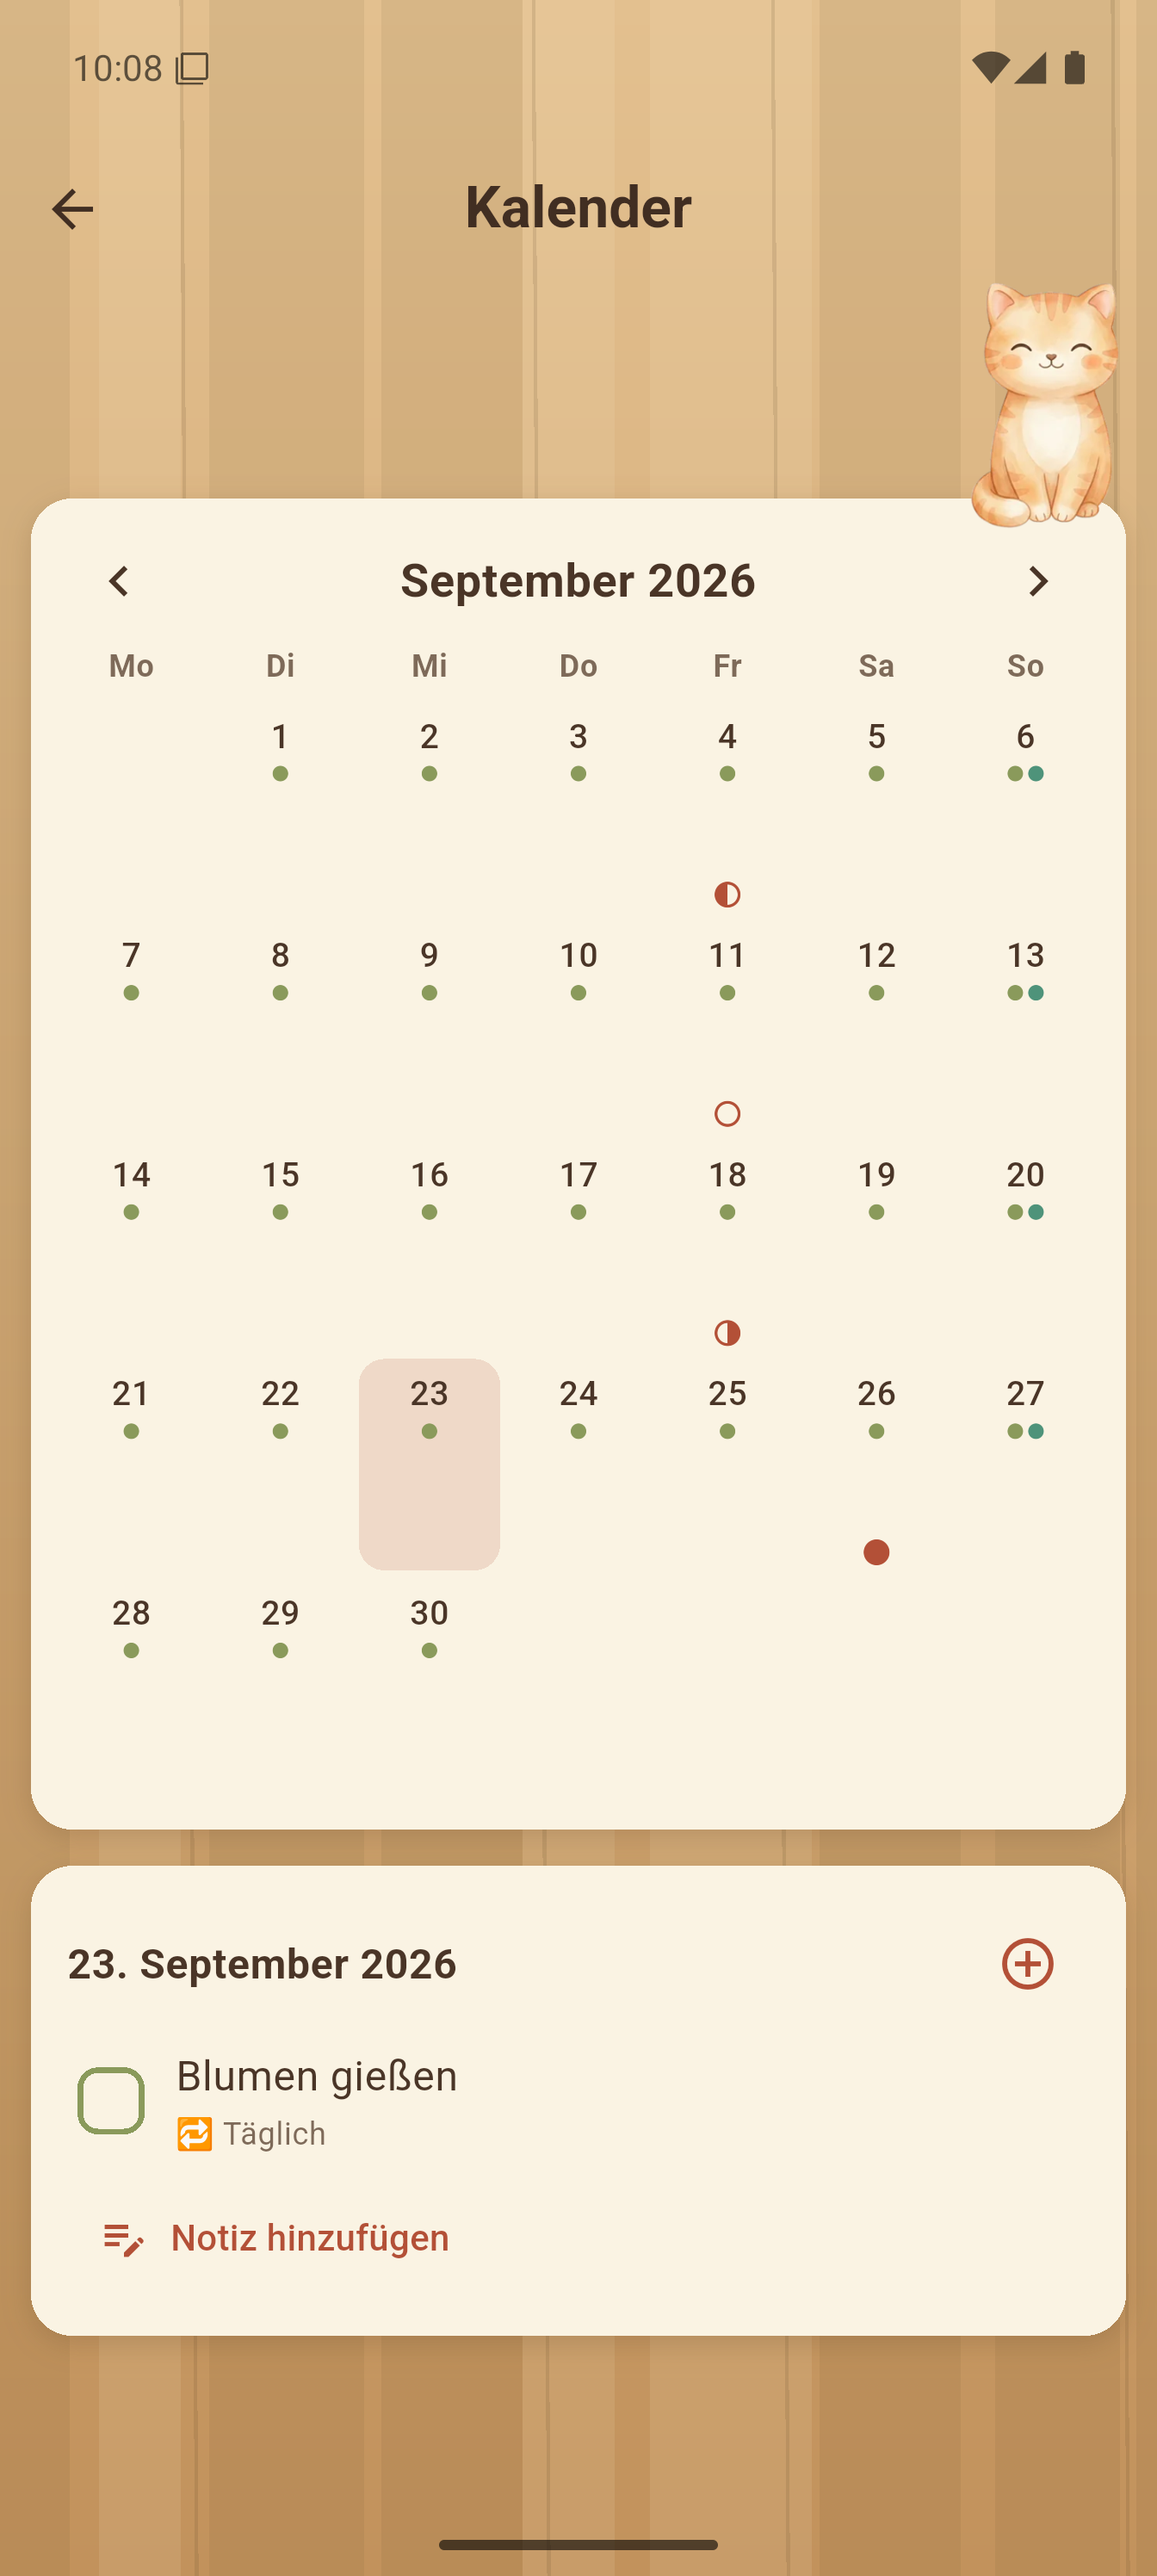
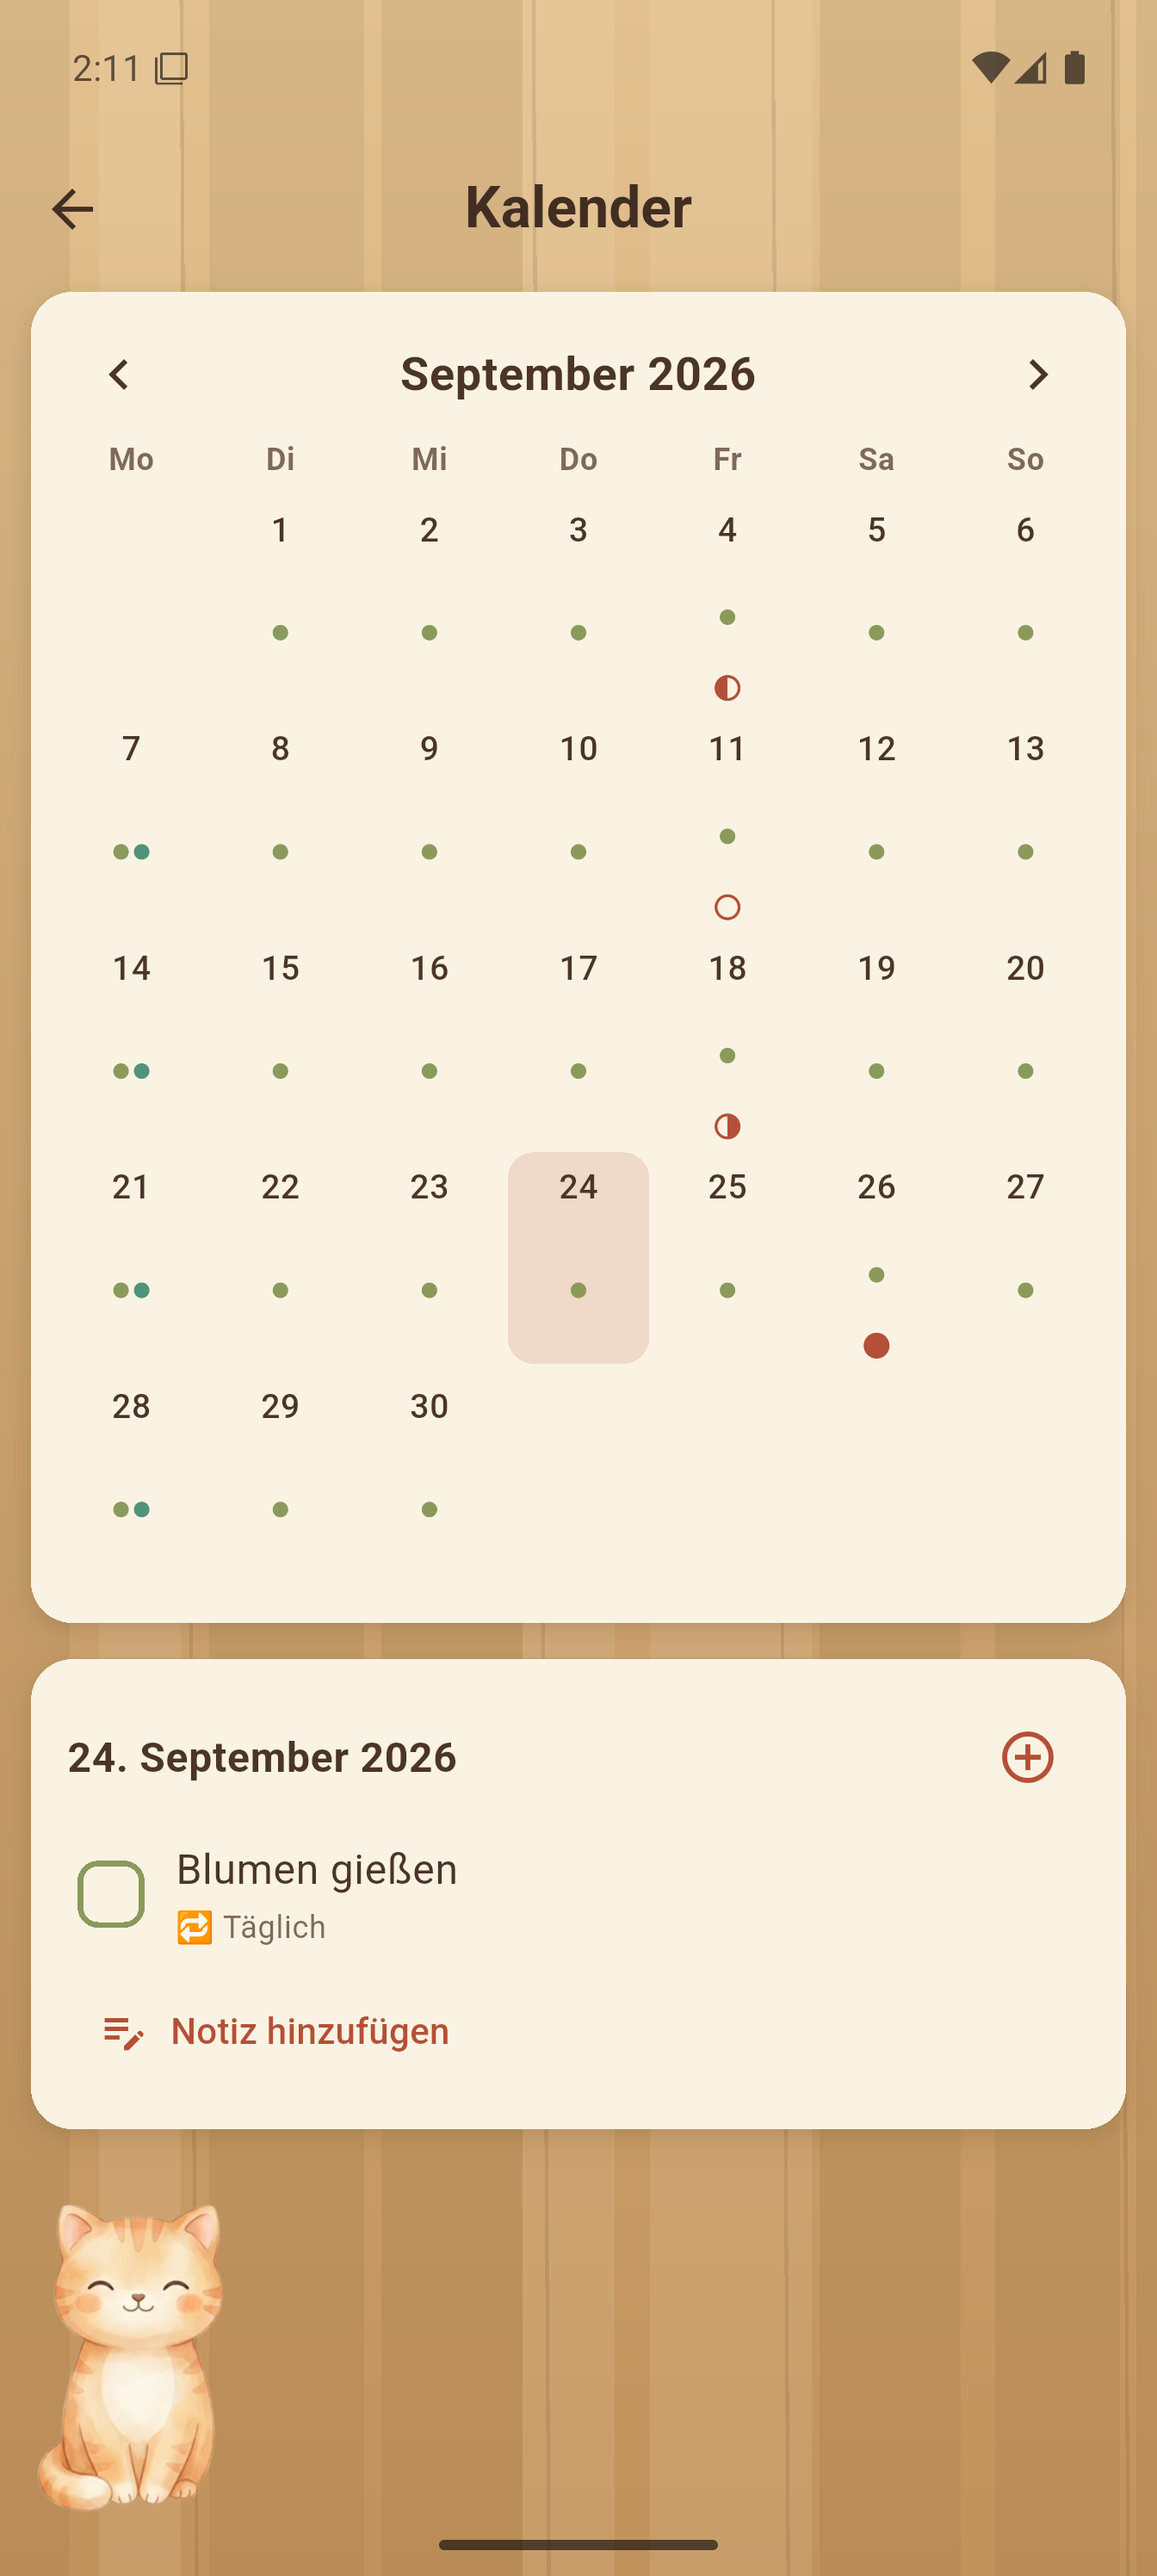
joe-todo: Uhren im Kalender groesser und mittig
Die Uhrenreihe war mit 11 Pixeln kaum zu erkennen, und der Expanded ueber
ihr drueckte sie an den unteren Rand des Kaestchens, dicht an Stern, N und
Mond. Aus zwei Schritten Entfernung sah ein Tag mit Termin aus wie einer mit
einem Fleck.

Punkte und Uhren stehen jetzt zusammen in der Mitte des Kaestchens, die Uhr
misst 14 Pixel. Sie bleibt in ihrer eigenen Reihe unter den Aufgaben. Eine
FittedBox laesst die Reihe auf schmalen Telefonen schrumpfen statt
ueberzulaufen; mehr als drei Uhren zeigt ein Tag nicht mehr, sonst wird das
Kaestchen zur Leiste.

Claude-Session: https://claude.ai/code/session_01GTTHh3KS7ZpoGwavN3S3nZ

diff --git a/app/lib/screens/calendar.dart b/app/lib/screens/calendar.dart
@@ -505,26 +505,40 @@ class _DayCell extends StatelessWidget {
                 ),
               ),
               const SizedBox(height: 2),
-              // Oben die Aufgaben als Punkte …
+              // Aufgaben und Termine stehen zusammen in der Mitte des
+              // Kaestchens: oben die Punkte, darunter die Uhren. Vorher
+              // drueckte der Expanded die Uhrenreihe an den unteren Rand,
+              // dicht an die Zeichenzeile.
               Expanded(
-                child: Wrap(
-                  alignment: WrapAlignment.center,
-                  spacing: 2,
-                  runSpacing: 2,
-                  children: markers.take(6).toList(),
+                child: Column(
+                  mainAxisAlignment: MainAxisAlignment.center,
+                  children: [
+                    Flexible(
+                      child: Wrap(
+                        alignment: WrapAlignment.center,
+                        spacing: 2,
+                        runSpacing: 2,
+                        children: markers.take(6).toList(),
+                      ),
+                    ),
+                    // Die Termine in der Farbe des jeweiligen Termins. Die
+                    // FittedBox laesst sie auf schmalen Telefonen kleiner
+                    // werden, statt die Zelle ueberlaufen zu lassen.
+                    if (clocks.isNotEmpty)
+                      Padding(
+                        padding: EdgeInsets.only(top: markers.isEmpty ? 0 : 3),
+                        child: FittedBox(
+                          fit: BoxFit.scaleDown,
+                          child: Row(
+                            mainAxisSize: MainAxisSize.min,
+                            spacing: 2,
+                            children: clocks.take(3).toList(),
+                          ),
+                        ),
+                      ),
+                  ],
                 ),
               ),
-              // … darunter die Termine als eigene Reihe von Uhren, in der
-              // Farbe des jeweiligen Termins.
-              if (clocks.isNotEmpty)
-                Padding(
-                  padding: const EdgeInsets.only(bottom: 1),
-                  child: Row(
-                    mainAxisSize: MainAxisSize.min,
-                    spacing: 1,
-                    children: clocks.take(4).toList(),
-                  ),
-                ),
               // Ganz unten die Zeichenzeile: Stern (Feiertag), "N" (Notiz),
               // Mond (Hauptphase). Keins davon bekommt einen Farbpunkt – sie
               // haben keine eigene Farbe und sollen die Punktreihe der
@@ -566,7 +580,7 @@ class _DayCell extends StatelessWidget {
 
   /// Ein Termin in der Uhrenreihe – in seiner Farbe, damit sich die Termine
   /// eines Tages auch dort auseinanderhalten lassen.
-  Widget _clock(Color color) => Icon(Icons.schedule, size: 11, color: color);
+  Widget _clock(Color color) => Icon(Icons.schedule, size: 14, color: color);
 }
 
 /// Ein Termin aus einem Geraete-Kalender in der Tageskarte: nur Anzeige,
